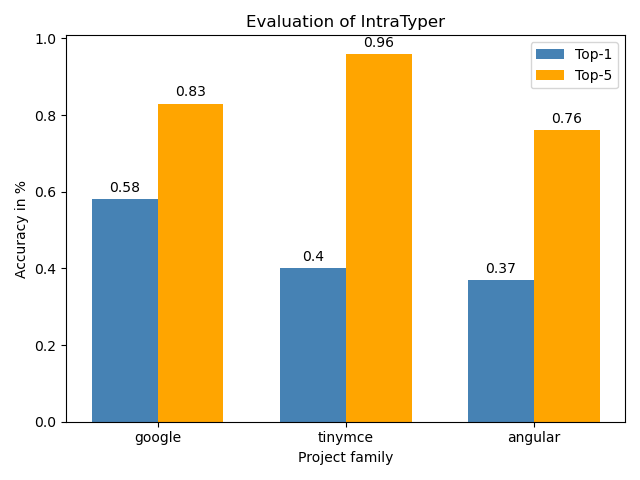
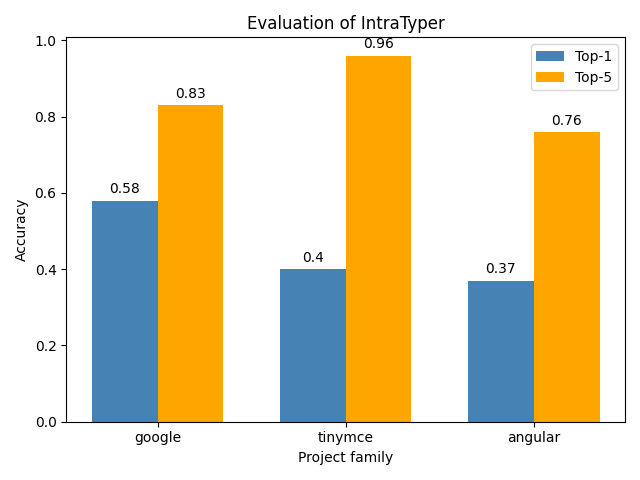
Updated plot

diff --git a/analyse_result.py b/analyse_result.py
@@ -44,7 +44,7 @@ def plotter_IT(f1, f2, f3):
     rects2 = ax.bar(x + width / 2, top_5_acc, color='orange', width=width, label='Top-5')
 
     # Add some text for labels, title and custom x-axis tick labels, etc.
-    ax.set_ylabel('Accuracy in %')
+    ax.set_ylabel('Accuracy')
     ax.set_xlabel('Project family')
     ax.set_xticks(x)
     ax.set_xticklabels(labels)
@@ -137,7 +137,7 @@ def plotter_comp(f1, f2):
     rects4 = ax.bar(r4, uc_5_acc, color='moccasin', width=barWidth, edgecolor='white', label='Top 5 uncommon')
 
     # Add some text for labels, title and custom x-axis tick labels, etc.
-    ax.set_ylabel('Accuracy in %')
+    ax.set_ylabel('Accuracy')
     ax.set_xlabel('Model')
     plt.xticks([r + 1.5 * barWidth for r in range(len(labels))], ['IntraTyper', 'DeepTyper'])
     ax.set_xticklabels(labels)
